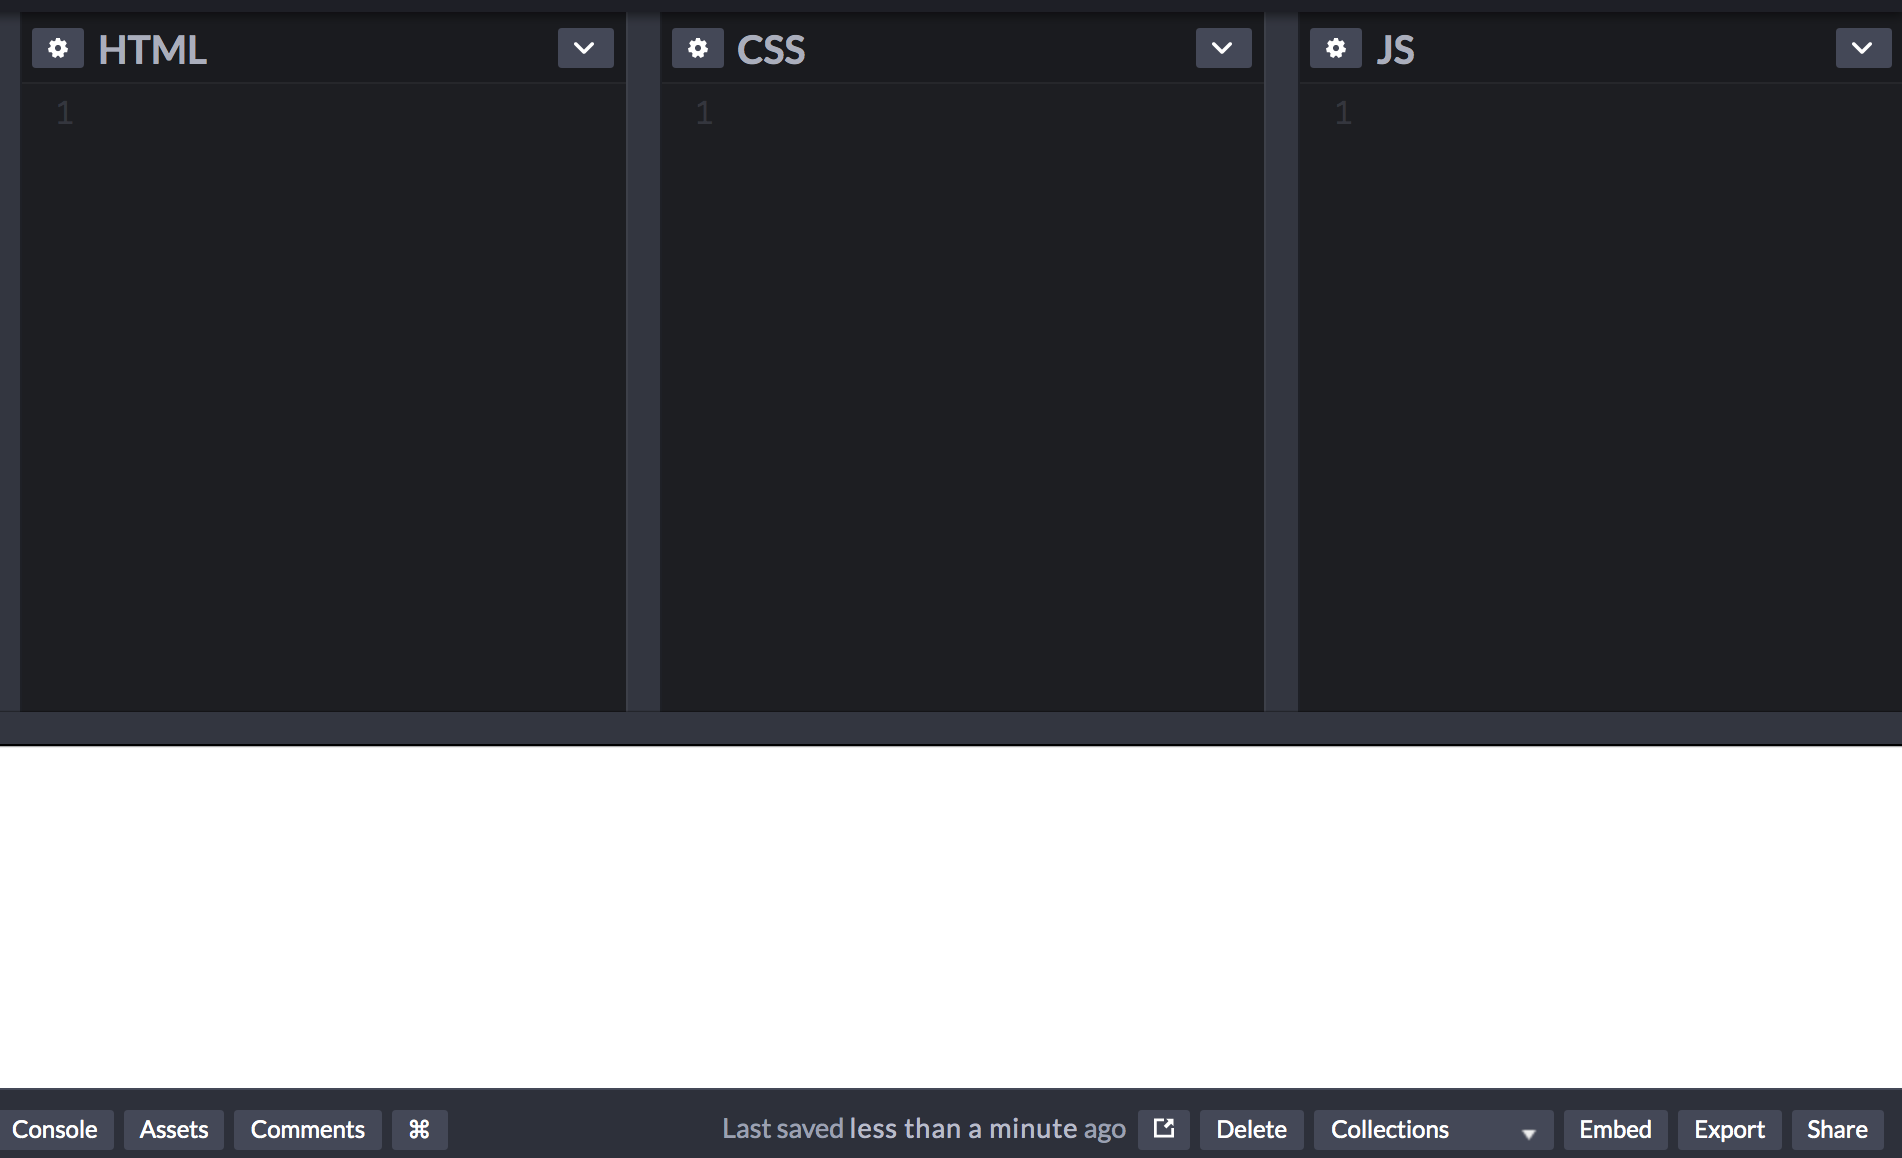
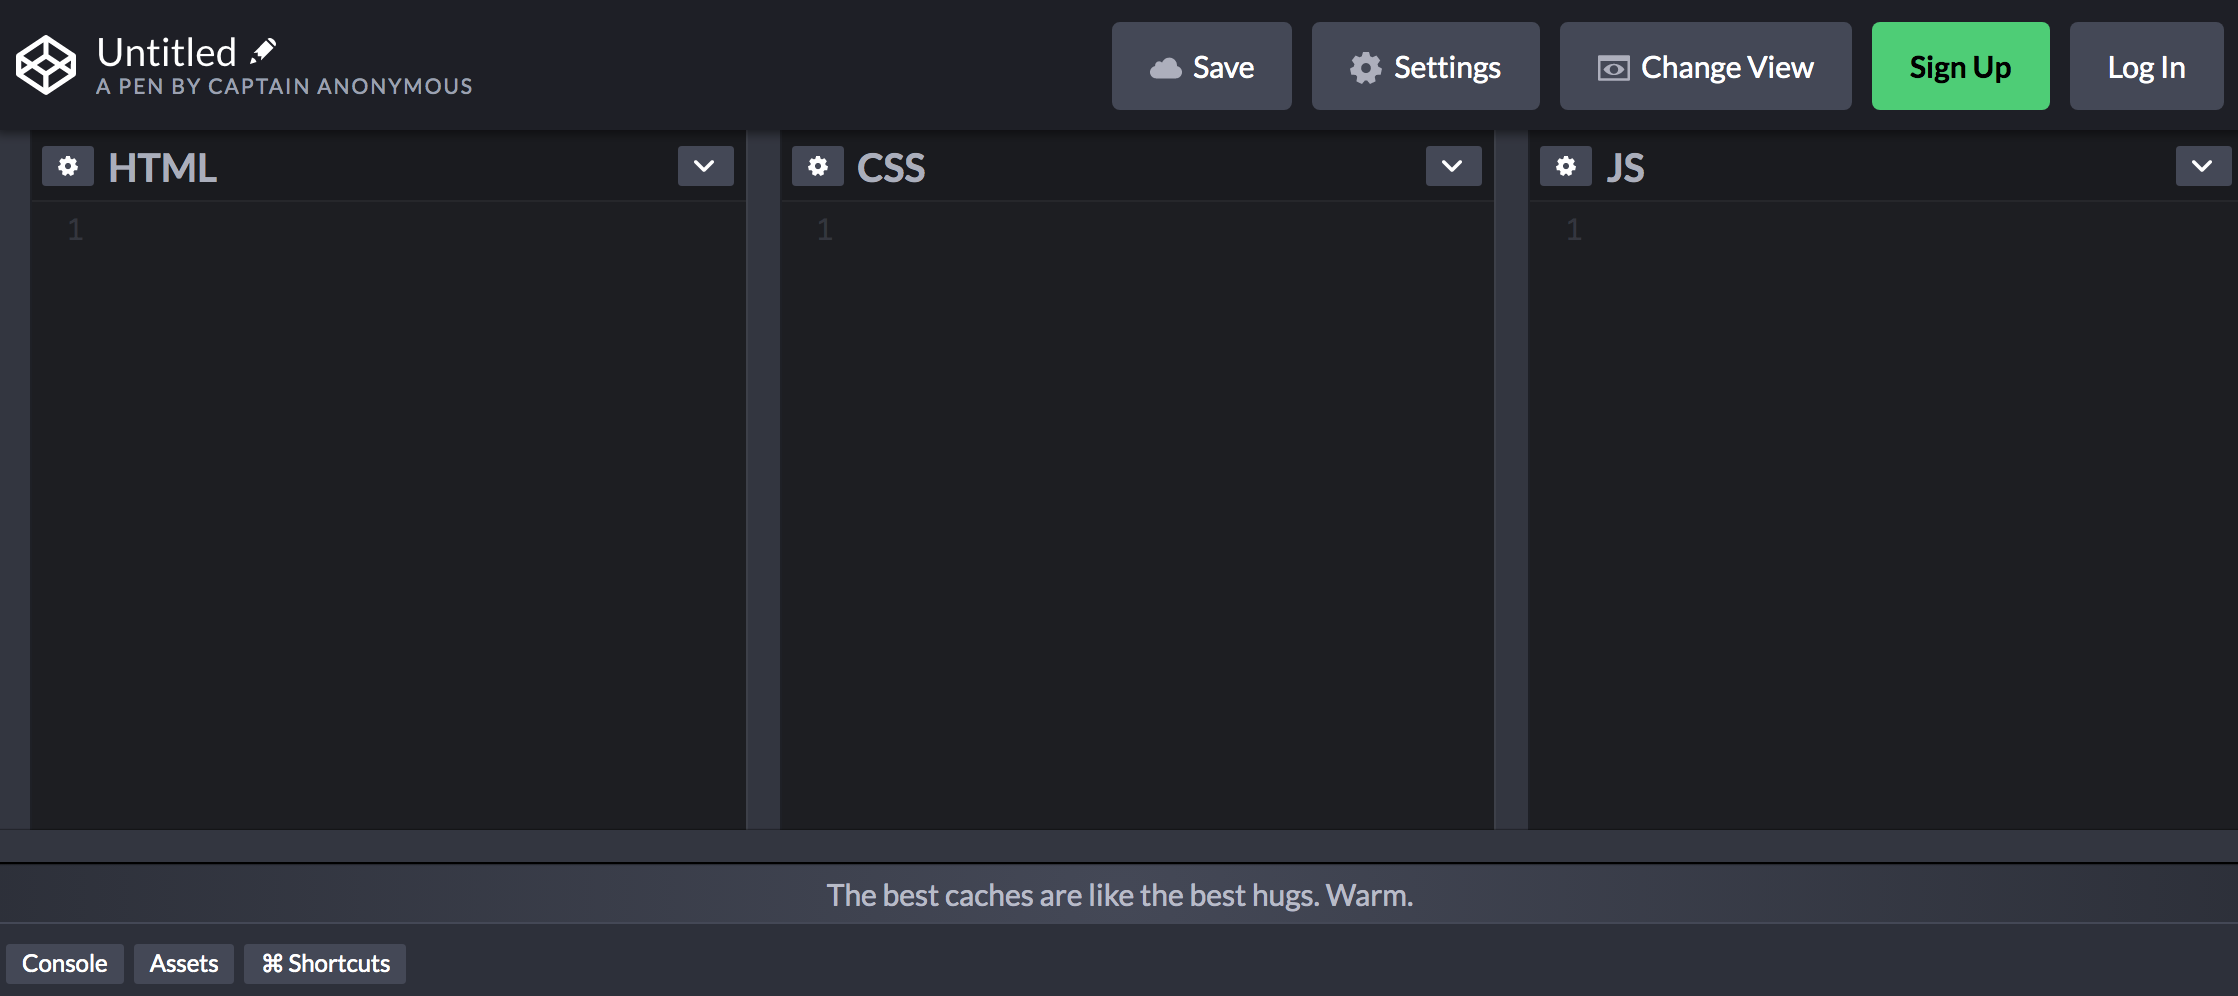
Refactored

diff --git a/vol2/index.php b/vol2/index.php
@@ -138,7 +138,7 @@ partheader('Setup your development environment'); ##############################
 ?>
 
 <? #############################################################################
-stepheader('note-codepen', 'Introduction to Codepen.io'); ?>
+stepheader('note-codepen', 'Introduction to CodePen'); ?>
     
     <p>We are going to write a bunch of code together. To do that, you need
     a <i>development environment</i>, a place where you can type in code,
@@ -172,20 +172,31 @@ stepheader('note-codepen', 'Introduction to Codepen.io'); ?>
 <? #############################################################################
 stepheader('note-codepen-howto', 'CodePen panes'); ?>
     <p>Visit <a target="_blank" href="https://codepen.io/pen">https://codepen.io/pen</a>.
-    You might see something like this:
+    You should see something that looks similar to:
     </p>
 
     <? screenshot_vol2('codepen-blank.png', True, True) ?>
 
-    <p>There is a possibility, though, that the white area on the bottom is missing. In which case,
-    continue to follow these instructions, and the white area on the bottom will automatically appear soon.</p>
-
-    <p>There are four panes:</p>
+    <p>From this &ldquo;view,&rdquo; you can see three panes:</p>
 
     <? screenshot_vol2('codepen-panes.png', True, True) ?>
 
-    <p>The first three panes are for &ldquo;HTML,&rdquo; &ldquo;CSS,&rdquo; and JavaScript.
-    I have labeled the fourth pane, &ldquo;Webpage.&rdquo;</p>
+    <p>But, there&rsquo;s a fourth pane that we can&rsquo;t see yet. To view all four panes,
+        click the <i>change view</i> button:</p>
+
+    <? screenshot_vol2('codepen-change-view.png', True, True) ?>
+
+    <p>The <i>editor-layout</i> menu should pop up. Then click the left-most option:</p>
+
+    <? screenshot_vol2('codepen-editor-layout.png', True, True) ?>
+
+    <p>Now, your CodePen page should look like this:</p>
+
+    <? screenshot_vol2('codepen-four-panes.png', True, True) ?>
+
+
+
+
 
     <p>The way it works is: you will construct a web page by typing in (or pasting) code into the first three panes.
         Then, a web page (your web page) will automatically appear in the fourth pane.</p>
